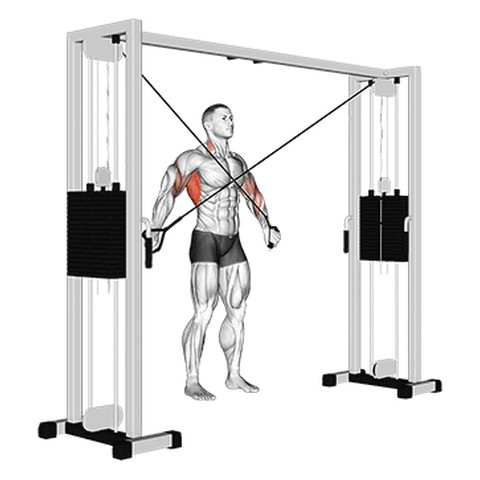
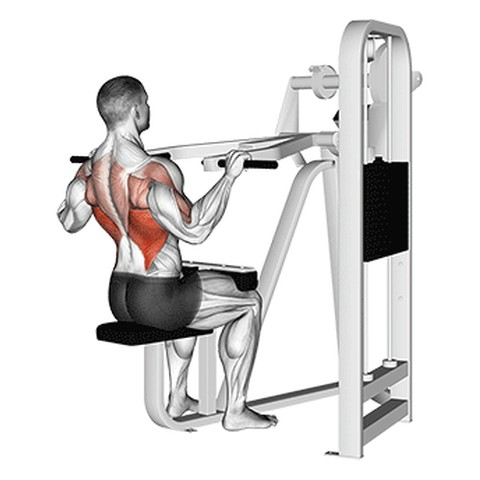
Use a seated lat pulldown machine for the lat pulldown preview.
The previous frame was a standing cable pull. The replacement is the seated machine with thigh pads and a bar pulled to the chest.

diff --git a/partials/training.html b/partials/training.html
@@ -48,31 +48,31 @@
                     </div>
                     <div class="space-y-3">
                         <div class="exercise-card bg-[#292524] p-3 rounded-2xl flex gap-3 sm:gap-4">
-                            <img src="images/incline_dumbbell_press.jpg?v=2.4.54" class="w-12 h-12 sm:w-16 sm:h-16 object-contain bg-white rounded-xl flex-shrink-0">
+                            <img src="images/incline_dumbbell_press.jpg?v=2.4.55" class="w-12 h-12 sm:w-16 sm:h-16 object-contain bg-white rounded-xl flex-shrink-0">
                             <div class="text-sm sm:text-base pt-0.5">1. 上斜啞鈴推胸 (Incline Dumbbell Press)</div>
                         </div>
                         <div class="exercise-card bg-[#292524] p-3 rounded-2xl flex gap-3 sm:gap-4">
-                            <img src="images/flat_dumbbell_press.jpg?v=2.4.54" class="w-12 h-12 sm:w-16 sm:h-16 object-contain bg-white rounded-xl flex-shrink-0">
+                            <img src="images/flat_dumbbell_press.jpg?v=2.4.55" class="w-12 h-12 sm:w-16 sm:h-16 object-contain bg-white rounded-xl flex-shrink-0">
                             <div class="text-sm sm:text-base pt-0.5">2. 平板啞鈴推胸 (Flat Dumbbell Press)</div>
                         </div>
                         <div class="exercise-card bg-[#292524] p-3 rounded-2xl flex gap-3 sm:gap-4">
-                            <img src="images/lower_chest_cable_fly.jpg?v=2.4.54" class="w-12 h-12 sm:w-16 sm:h-16 object-contain bg-white rounded-xl flex-shrink-0">
+                            <img src="images/lower_chest_cable_fly.jpg?v=2.4.55" class="w-12 h-12 sm:w-16 sm:h-16 object-contain bg-white rounded-xl flex-shrink-0">
                             <div class="text-sm sm:text-base pt-0.5">3. 下胸繩索飛鳥 (Lower Chest Cable Fly)</div>
                         </div>
                         <div class="exercise-card bg-[#292524] p-3 rounded-2xl flex gap-3 sm:gap-4">
-                            <img src="images/tricep_rope_pushdown.jpg?v=2.4.54" class="w-12 h-12 sm:w-16 sm:h-16 object-contain bg-white rounded-xl flex-shrink-0">
+                            <img src="images/tricep_rope_pushdown.jpg?v=2.4.55" class="w-12 h-12 sm:w-16 sm:h-16 object-contain bg-white rounded-xl flex-shrink-0">
                             <div class="text-sm sm:text-base pt-0.5">4. 繩索三頭下壓 (Tricep Rope Pushdown)</div>
                         </div>
                         <div class="exercise-card bg-[#292524] p-3 rounded-2xl flex gap-3 sm:gap-4">
-                            <img src="images/cable_overhead_triceps.jpg?v=2.4.54" class="w-12 h-12 sm:w-16 sm:h-16 object-contain bg-white rounded-xl flex-shrink-0">
+                            <img src="images/cable_overhead_triceps.jpg?v=2.4.55" class="w-12 h-12 sm:w-16 sm:h-16 object-contain bg-white rounded-xl flex-shrink-0">
                             <div class="text-sm sm:text-base pt-0.5">5. 繩索過頭三頭伸展 (Cable Overhead Triceps Extension)</div>
                         </div>
                         <div class="exercise-card bg-[#292524] p-3 rounded-2xl flex gap-3 sm:gap-4">
-                            <img src="images/seated_dumbbell_press.jpg?v=2.4.54" class="w-12 h-12 sm:w-16 sm:h-16 object-contain bg-white rounded-xl flex-shrink-0" alt="坐姿啞鈴肩推">
+                            <img src="images/seated_dumbbell_press.jpg?v=2.4.55" class="w-12 h-12 sm:w-16 sm:h-16 object-contain bg-white rounded-xl flex-shrink-0" alt="坐姿啞鈴肩推">
                             <div class="text-sm sm:text-base pt-0.5">6. 坐姿啞鈴肩推 (Seated Dumbbell Shoulder Press)</div>
                         </div>
                         <div class="exercise-card bg-[#292524] p-3 rounded-2xl flex gap-3 sm:gap-4">
-                            <img src="images/abdominal_crunch.jpg?v=2.4.54" class="w-12 h-12 sm:w-16 sm:h-16 object-contain bg-white rounded-xl flex-shrink-0" alt="器械捲腹">
+                            <img src="images/abdominal_crunch.jpg?v=2.4.55" class="w-12 h-12 sm:w-16 sm:h-16 object-contain bg-white rounded-xl flex-shrink-0" alt="器械捲腹">
                             <div class="text-sm sm:text-base pt-0.5">7. 器械捲腹 (Machine Abdominal Crunch)</div>
                         </div>
                     </div>
@@ -100,31 +100,31 @@
                     </div>
                     <div class="space-y-3">
                         <div class="exercise-card bg-[#292524] p-3 rounded-2xl flex gap-3 sm:gap-4">
-                            <img src="images/pull_ups.jpg?v=2.4.54" class="w-12 h-12 sm:w-16 sm:h-16 object-contain bg-white rounded-xl flex-shrink-0">
+                            <img src="images/pull_ups.jpg?v=2.4.55" class="w-12 h-12 sm:w-16 sm:h-16 object-contain bg-white rounded-xl flex-shrink-0">
                             <div class="text-sm sm:text-base pt-0.5">1. 引體向上 (Pull-ups)</div>
                         </div>
                         <div class="exercise-card bg-[#292524] p-3 rounded-2xl flex gap-3 sm:gap-4">
-                            <img src="images/deadlift.jpg?v=2.4.54" class="w-12 h-12 sm:w-16 sm:h-16 object-contain bg-white rounded-xl flex-shrink-0">
+                            <img src="images/deadlift.jpg?v=2.4.55" class="w-12 h-12 sm:w-16 sm:h-16 object-contain bg-white rounded-xl flex-shrink-0">
                             <div class="text-sm sm:text-base pt-0.5">2. 硬拉 (Deadlift)</div>
                         </div>
                         <div class="exercise-card bg-[#292524] p-3 rounded-2xl flex gap-3 sm:gap-4">
-                            <img src="images/seated_cable_row.jpg?v=2.4.54" class="w-12 h-12 sm:w-16 sm:h-16 object-contain bg-white rounded-xl flex-shrink-0">
+                            <img src="images/seated_cable_row.jpg?v=2.4.55" class="w-12 h-12 sm:w-16 sm:h-16 object-contain bg-white rounded-xl flex-shrink-0">
                             <div class="text-sm sm:text-base pt-0.5">3. 坐姿繩索拉背 (Seated Cable Row)</div>
                         </div>
                         <div class="exercise-card bg-[#292524] p-3 rounded-2xl flex gap-3 sm:gap-4">
-                            <img src="images/bayesian_cable_curls.jpg?v=2.4.54" class="w-12 h-12 sm:w-16 sm:h-16 object-contain bg-white rounded-xl flex-shrink-0">
+                            <img src="images/bayesian_cable_curls.jpg?v=2.4.55" class="w-12 h-12 sm:w-16 sm:h-16 object-contain bg-white rounded-xl flex-shrink-0">
                             <div class="text-sm sm:text-base pt-0.5">4. 貝葉斯繩索彎舉 (Bayesian Cable Curls)</div>
                         </div>
                         <div class="exercise-card bg-[#292524] p-3 rounded-2xl flex gap-3 sm:gap-4">
-                            <img src="images/preacher_curls.jpg?v=2.4.54" class="w-12 h-12 sm:w-16 sm:h-16 object-contain bg-white rounded-xl flex-shrink-0">
+                            <img src="images/preacher_curls.jpg?v=2.4.55" class="w-12 h-12 sm:w-16 sm:h-16 object-contain bg-white rounded-xl flex-shrink-0">
                             <div class="text-sm sm:text-base pt-0.5">5. 牧師椅彎舉 (Preacher Curls)</div>
                         </div>
                         <div class="exercise-card bg-[#292524] p-3 rounded-2xl flex gap-3 sm:gap-4">
-                            <img src="images/rear_delt_raises.jpg?v=2.4.54" class="w-12 h-12 sm:w-16 sm:h-16 object-contain bg-white rounded-xl flex-shrink-0">
+                            <img src="images/rear_delt_raises.jpg?v=2.4.55" class="w-12 h-12 sm:w-16 sm:h-16 object-contain bg-white rounded-xl flex-shrink-0">
                             <div class="text-sm sm:text-base pt-0.5">6. 後飛 (Rear Delt Raises)</div>
                         </div>
                         <div class="exercise-card bg-[#292524] p-3 rounded-2xl flex gap-3 sm:gap-4">
-                            <img src="images/wood_chopper.jpg?v=2.4.54" class="w-12 h-12 sm:w-16 sm:h-16 object-contain bg-white rounded-xl flex-shrink-0">
+                            <img src="images/wood_chopper.jpg?v=2.4.55" class="w-12 h-12 sm:w-16 sm:h-16 object-contain bg-white rounded-xl flex-shrink-0">
                             <div class="text-sm sm:text-base pt-0.5">7. 斬木 (Wood Chopper)</div>
                         </div>
                     </div>
@@ -152,31 +152,31 @@
                     </div>
                     <div class="space-y-3">
                         <div class="exercise-card bg-[#292524] p-3 rounded-2xl flex gap-3 sm:gap-4">
-                            <img src="images/zercher_squats.jpg?v=2.4.54" class="w-12 h-12 sm:w-16 sm:h-16 object-contain bg-white rounded-xl flex-shrink-0">
+                            <img src="images/zercher_squats.jpg?v=2.4.55" class="w-12 h-12 sm:w-16 sm:h-16 object-contain bg-white rounded-xl flex-shrink-0">
                             <div class="text-sm sm:text-base pt-0.5">1. 澤奇深蹲 (Zercher Squats)</div>
                         </div>
                         <div class="exercise-card bg-[#292524] p-3 rounded-2xl flex gap-3 sm:gap-4">
-                            <img src="images/romanian_deadlift.jpg?v=2.4.54" class="w-12 h-12 sm:w-16 sm:h-16 object-contain bg-white rounded-xl flex-shrink-0" alt="羅馬尼亞硬拉">
+                            <img src="images/romanian_deadlift.jpg?v=2.4.55" class="w-12 h-12 sm:w-16 sm:h-16 object-contain bg-white rounded-xl flex-shrink-0" alt="羅馬尼亞硬拉">
                             <div class="text-sm sm:text-base pt-0.5">2. 羅馬尼亞硬拉 (Romanian Deadlift)</div>
                         </div>
                         <div class="exercise-card bg-[#292524] p-3 rounded-2xl flex gap-3 sm:gap-4">
-                            <img src="images/standing_calf_raise.jpg?v=2.4.54" class="w-12 h-12 sm:w-16 sm:h-16 object-contain bg-white rounded-xl flex-shrink-0" alt="站姿小腿提踵">
+                            <img src="images/standing_calf_raise.jpg?v=2.4.55" class="w-12 h-12 sm:w-16 sm:h-16 object-contain bg-white rounded-xl flex-shrink-0" alt="站姿小腿提踵">
                             <div class="text-sm sm:text-base pt-0.5">3. 站姿小腿提踵 (Standing Calf Raise)</div>
                         </div>
                         <div class="exercise-card bg-[#292524] p-3 rounded-2xl flex gap-3 sm:gap-4">
-                            <img src="images/finger_curls.jpg?v=2.4.54" class="w-12 h-12 sm:w-16 sm:h-16 object-contain bg-white rounded-xl flex-shrink-0">
+                            <img src="images/finger_curls.jpg?v=2.4.55" class="w-12 h-12 sm:w-16 sm:h-16 object-contain bg-white rounded-xl flex-shrink-0">
                             <div class="text-sm sm:text-base pt-0.5">4. 指力彎舉 (Finger Curls)</div>
                         </div>
                         <div class="exercise-card bg-[#292524] p-3 rounded-2xl flex gap-3 sm:gap-4">
-                            <img src="images/reverse_forearm_curl.jpg?v=2.4.54" class="w-12 h-12 sm:w-16 sm:h-16 object-contain bg-white rounded-xl flex-shrink-0">
+                            <img src="images/reverse_forearm_curl.jpg?v=2.4.55" class="w-12 h-12 sm:w-16 sm:h-16 object-contain bg-white rounded-xl flex-shrink-0">
                             <div class="text-sm sm:text-base pt-0.5">5. 反向腕彎舉 (Reverse Forearm Curl)</div>
                         </div>
                         <div class="exercise-card bg-[#292524] p-3 rounded-2xl flex gap-3 sm:gap-4">
-                            <img src="images/lateral_raises.jpg?v=2.4.54" class="w-12 h-12 sm:w-16 sm:h-16 object-contain bg-white rounded-xl flex-shrink-0">
+                            <img src="images/lateral_raises.jpg?v=2.4.55" class="w-12 h-12 sm:w-16 sm:h-16 object-contain bg-white rounded-xl flex-shrink-0">
                             <div class="text-sm sm:text-base pt-0.5">6. 側舉 (Lateral Raises)</div>
                         </div>
                         <div class="exercise-card bg-[#292524] p-3 rounded-2xl flex gap-3 sm:gap-4">
-                            <img src="images/hanging_leg_raise.jpg?v=2.4.54" class="w-12 h-12 sm:w-16 sm:h-16 object-contain bg-white rounded-xl flex-shrink-0">
+                            <img src="images/hanging_leg_raise.jpg?v=2.4.55" class="w-12 h-12 sm:w-16 sm:h-16 object-contain bg-white rounded-xl flex-shrink-0">
                             <div class="text-sm sm:text-base pt-0.5">7. 懸垂舉腿 (Hanging Leg Raise)</div>
                         </div>
                     </div>
@@ -209,31 +209,31 @@
                     <div class="kitchen-note"><i class="fa-solid fa-person-running"></i> 重量之後，跑步機上斜行 20–25 分鐘</div>
                     <div class="space-y-2">
                         <div class="exercise-card bg-[#292524] p-3 rounded-2xl flex gap-3">
-                            <img src="images/flat_dumbbell_press.jpg?v=2.4.54" class="w-12 h-12 object-contain bg-white rounded-xl flex-shrink-0" alt="平板啞鈴推胸">
+                            <img src="images/flat_dumbbell_press.jpg?v=2.4.55" class="w-12 h-12 object-contain bg-white rounded-xl flex-shrink-0" alt="平板啞鈴推胸">
                             <div class="text-sm pt-0.5">1. 平板啞鈴推胸<span class="kitchen-en">Flat Dumbbell Press</span></div>
                         </div>
                         <div class="exercise-card bg-[#292524] p-3 rounded-2xl flex gap-3">
-                            <img src="images/tricep_rope_pushdown.jpg?v=2.4.54" class="w-12 h-12 object-contain bg-white rounded-xl flex-shrink-0" alt="繩索三頭下壓">
+                            <img src="images/tricep_rope_pushdown.jpg?v=2.4.55" class="w-12 h-12 object-contain bg-white rounded-xl flex-shrink-0" alt="繩索三頭下壓">
                             <div class="text-sm pt-0.5">2. 繩索三頭下壓<span class="kitchen-en">Triceps Pushdown</span></div>
                         </div>
                         <div class="exercise-card bg-[#292524] p-3 rounded-2xl flex gap-3">
-                            <img src="images/romanian_dumbbell_deadlift.jpg?v=2.4.54" class="w-12 h-12 object-contain bg-white rounded-xl flex-shrink-0" alt="羅馬尼亞啞鈴硬拉">
+                            <img src="images/romanian_dumbbell_deadlift.jpg?v=2.4.55" class="w-12 h-12 object-contain bg-white rounded-xl flex-shrink-0" alt="羅馬尼亞啞鈴硬拉">
                             <div class="text-sm pt-0.5">3. 羅馬尼亞啞鈴硬拉<span class="kitchen-en">Romanian Dumbbell Deadlift</span></div>
                         </div>
                         <div class="exercise-card bg-[#292524] p-3 rounded-2xl flex gap-3">
-                            <img src="images/goblet_squat.jpg?v=2.4.54" class="w-12 h-12 object-contain bg-white rounded-xl flex-shrink-0" alt="高腳杯深蹲">
+                            <img src="images/goblet_squat.jpg?v=2.4.55" class="w-12 h-12 object-contain bg-white rounded-xl flex-shrink-0" alt="高腳杯深蹲">
                             <div class="text-sm pt-0.5">4. 高腳杯深蹲<span class="kitchen-en">Goblet Squat</span></div>
                         </div>
                         <div class="exercise-card bg-[#292524] p-3 rounded-2xl flex gap-3">
-                            <img src="images/lateral_raises.jpg?v=2.4.54" class="w-12 h-12 object-contain bg-white rounded-xl flex-shrink-0" alt="側舉">
+                            <img src="images/lateral_raises.jpg?v=2.4.55" class="w-12 h-12 object-contain bg-white rounded-xl flex-shrink-0" alt="側舉">
                             <div class="text-sm pt-0.5">5. 側舉<span class="kitchen-en">Lateral Raise</span></div>
                         </div>
                         <div class="exercise-card bg-[#292524] p-3 rounded-2xl flex gap-3">
-                            <img src="images/abdominal_crunch.jpg?v=2.4.54" class="w-12 h-12 object-contain bg-white rounded-xl flex-shrink-0" alt="器械捲腹">
+                            <img src="images/abdominal_crunch.jpg?v=2.4.55" class="w-12 h-12 object-contain bg-white rounded-xl flex-shrink-0" alt="器械捲腹">
                             <div class="text-sm pt-0.5">6. 器械捲腹<span class="kitchen-en">Abdominal Crunch</span></div>
                         </div>
                         <div class="exercise-card kitchen-cardio bg-[#292524] p-3 rounded-2xl flex gap-3">
-                            <img src="images/treadmill.jpg?v=2.4.54" class="w-12 h-12 object-contain bg-white rounded-xl flex-shrink-0" alt="跑步機">
+                            <img src="images/treadmill.jpg?v=2.4.55" class="w-12 h-12 object-contain bg-white rounded-xl flex-shrink-0" alt="跑步機">
                             <div class="text-sm pt-0.5"><span class="kitchen-tag">有氧</span>跑步機 · 上斜行<span class="kitchen-en">20–25 分鐘，重量之後</span></div>
                         </div>
                     </div>
@@ -258,35 +258,35 @@
                     <div class="kitchen-note"><i class="fa-solid fa-person-running"></i> 划船機 15–20 分鐘；俾人用就踏步機或單車</div>
                     <div class="space-y-2">
                         <div class="exercise-card bg-[#292524] p-3 rounded-2xl flex gap-3">
-                            <img src="images/lat_pulldown.jpg?v=2.4.54" class="w-12 h-12 object-contain bg-white rounded-xl flex-shrink-0" alt="寬握下拉">
+                            <img src="images/lat_pulldown.jpg?v=2.4.55" class="w-12 h-12 object-contain bg-white rounded-xl flex-shrink-0" alt="寬握下拉">
                             <div class="text-sm pt-0.5">1. 寬握下拉<span class="kitchen-en">Lat Pulldown</span></div>
                         </div>
                         <div class="exercise-card bg-[#292524] p-3 rounded-2xl flex gap-3">
-                            <img src="images/dumbbell_curl.jpg?v=2.4.54" class="w-12 h-12 object-contain bg-white rounded-xl flex-shrink-0" alt="啞鈴彎舉">
+                            <img src="images/dumbbell_curl.jpg?v=2.4.55" class="w-12 h-12 object-contain bg-white rounded-xl flex-shrink-0" alt="啞鈴彎舉">
                             <div class="text-sm pt-0.5">2. 啞鈴彎舉<span class="kitchen-en">Dumbbell Curl</span></div>
                         </div>
                         <div class="exercise-card bg-[#292524] p-3 rounded-2xl flex gap-3">
-                            <img src="images/cable_hip_abduction.jpg?v=2.4.54" class="w-12 h-12 object-contain bg-white rounded-xl flex-shrink-0" alt="繩索髖外展">
+                            <img src="images/cable_hip_abduction.jpg?v=2.4.55" class="w-12 h-12 object-contain bg-white rounded-xl flex-shrink-0" alt="繩索髖外展">
                             <div class="text-sm pt-0.5">3. 繩索髖外展<span class="kitchen-en">Cable Hip Abduction</span></div>
                         </div>
                         <div class="exercise-card bg-[#292524] p-3 rounded-2xl flex gap-3">
-                            <img src="images/hip_thrust.jpg?v=2.4.54" class="w-12 h-12 object-contain bg-white rounded-xl flex-shrink-0" alt="臀推">
+                            <img src="images/hip_thrust.jpg?v=2.4.55" class="w-12 h-12 object-contain bg-white rounded-xl flex-shrink-0" alt="臀推">
                             <div class="text-sm pt-0.5">4. 臀推<span class="kitchen-en">Hip Thrust</span></div>
                         </div>
                         <div class="exercise-card bg-[#292524] p-3 rounded-2xl flex gap-3">
-                            <img src="images/rear_delt_raises.jpg?v=2.4.54" class="w-12 h-12 object-contain bg-white rounded-xl flex-shrink-0" alt="後飛">
+                            <img src="images/rear_delt_raises.jpg?v=2.4.55" class="w-12 h-12 object-contain bg-white rounded-xl flex-shrink-0" alt="後飛">
                             <div class="text-sm pt-0.5">5. 後飛<span class="kitchen-en">Rear Delt Raise</span></div>
                         </div>
                         <div class="exercise-card bg-[#292524] p-3 rounded-2xl flex gap-3">
-                            <img src="images/cable_wood_chopper.jpg?v=2.4.54" class="w-12 h-12 object-contain bg-white rounded-xl flex-shrink-0" alt="斬木">
+                            <img src="images/cable_wood_chopper.jpg?v=2.4.55" class="w-12 h-12 object-contain bg-white rounded-xl flex-shrink-0" alt="斬木">
                             <div class="text-sm pt-0.5">6. 斬木<span class="kitchen-en">Wood Chopper</span></div>
                         </div>
                         <div class="exercise-card bg-[#292524] p-3 rounded-2xl flex gap-3">
-                            <img src="images/hanging_leg_raise.jpg?v=2.4.54" class="w-12 h-12 object-contain bg-white rounded-xl flex-shrink-0" alt="懸垂舉腿">
+                            <img src="images/hanging_leg_raise.jpg?v=2.4.55" class="w-12 h-12 object-contain bg-white rounded-xl flex-shrink-0" alt="懸垂舉腿">
                             <div class="text-sm pt-0.5">7. 懸垂舉腿<span class="kitchen-en">Hanging Leg Raise</span></div>
                         </div>
                         <div class="exercise-card kitchen-cardio bg-[#292524] p-3 rounded-2xl flex gap-3">
-                            <img src="images/rowing_machine.jpg?v=2.4.54" class="w-12 h-12 object-contain bg-white rounded-xl flex-shrink-0" alt="划船機">
+                            <img src="images/rowing_machine.jpg?v=2.4.55" class="w-12 h-12 object-contain bg-white rounded-xl flex-shrink-0" alt="划船機">
                             <div class="text-sm pt-0.5"><span class="kitchen-tag">有氧</span>划船機<span class="kitchen-en">15–20 分鐘，或踏步機／單車</span></div>
                         </div>
                     </div>

diff --git a/js/data.js b/js/data.js
@@ -283,7 +283,7 @@ function getExerciseByName(name) {
 
 function resolveExerciseImage(src) {
     if (src && typeof src === 'string' && src.indexOf('images/') === 0) {
-        if (src.indexOf('v=') === -1) return src + (src.indexOf('?') >= 0 ? '&' : '?') + 'v=2.4.54';
+        if (src.indexOf('v=') === -1) return src + (src.indexOf('?') >= 0 ? '&' : '?') + 'v=2.4.55';
         return src;
     }
     return 'images/icon.jpeg';

diff --git a/js/boot.js b/js/boot.js
@@ -1,6 +1,6 @@
 // js/boot.js — 組裝 partials，再按順序載入 app scripts（GitHub Pages 相對路徑）
 (function () {
-    var VERSION = '2.4.54';
+    var VERSION = '2.4.55';
     var PARTIALS = [
         'partials/overview.html',
         'partials/schedule.html',

diff --git a/js/exercise-gif-map.js b/js/exercise-gif-map.js
@@ -31,7 +31,7 @@ const EXERCISE_GIF_MAP = {
     seated_cable_row: '0861',
     low_row: '0180',
     barbell_row: '0027',
-    lat_pulldown: '2330',
+    lat_pulldown: '0579',
     straight_arm_pulldown: '0238',
     dumbbell_row: '0292',
     incline_bench_row: '0327',

diff --git a/sw.js b/sw.js
@@ -1,5 +1,5 @@
 // Recomp PWA: precache shell only. 動作圖／山圖／xlsx 按需要 cache-on-demand。
-const CACHE_NAME = 'recomp-charity-v2.4.54';
+const CACHE_NAME = 'recomp-charity-v2.4.55';
 
 const CORE_ASSETS = [
   './',

diff --git a/index.html b/index.html
@@ -157,6 +157,6 @@ Local Development Instructions:
             });
         }
     </script>
-    <script src="js/boot.js?v=2.4.54"></script>
+    <script src="js/boot.js?v=2.4.55"></script>
 </body>
 </html>
